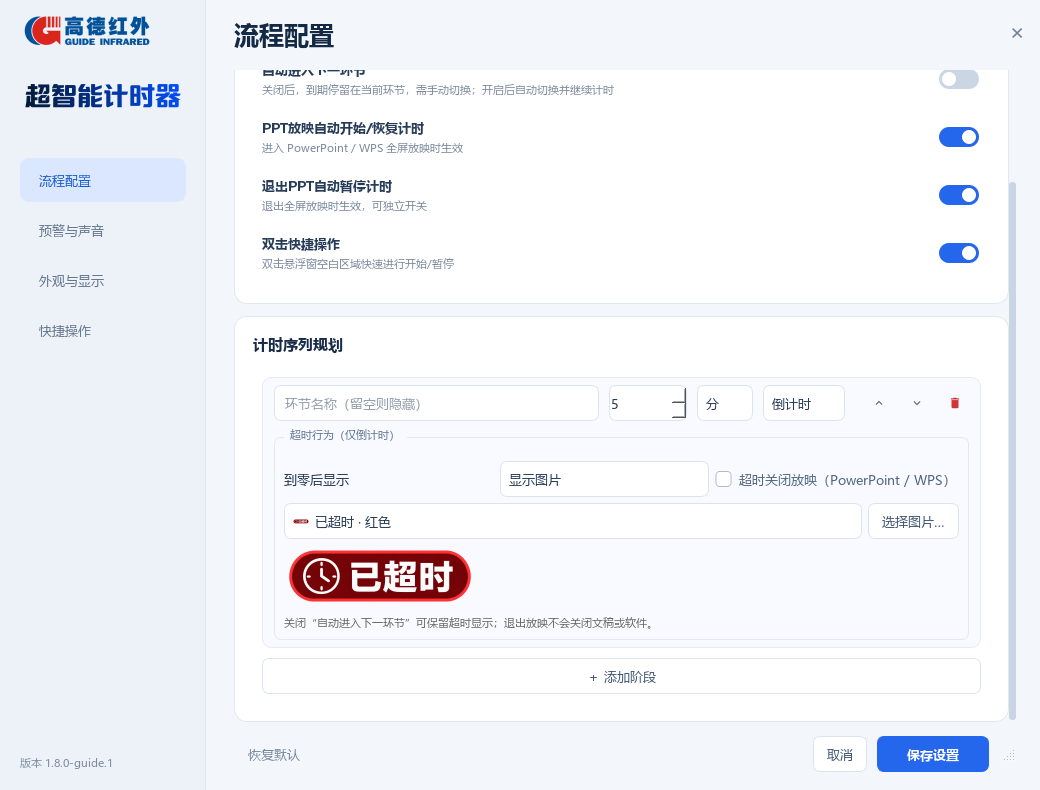
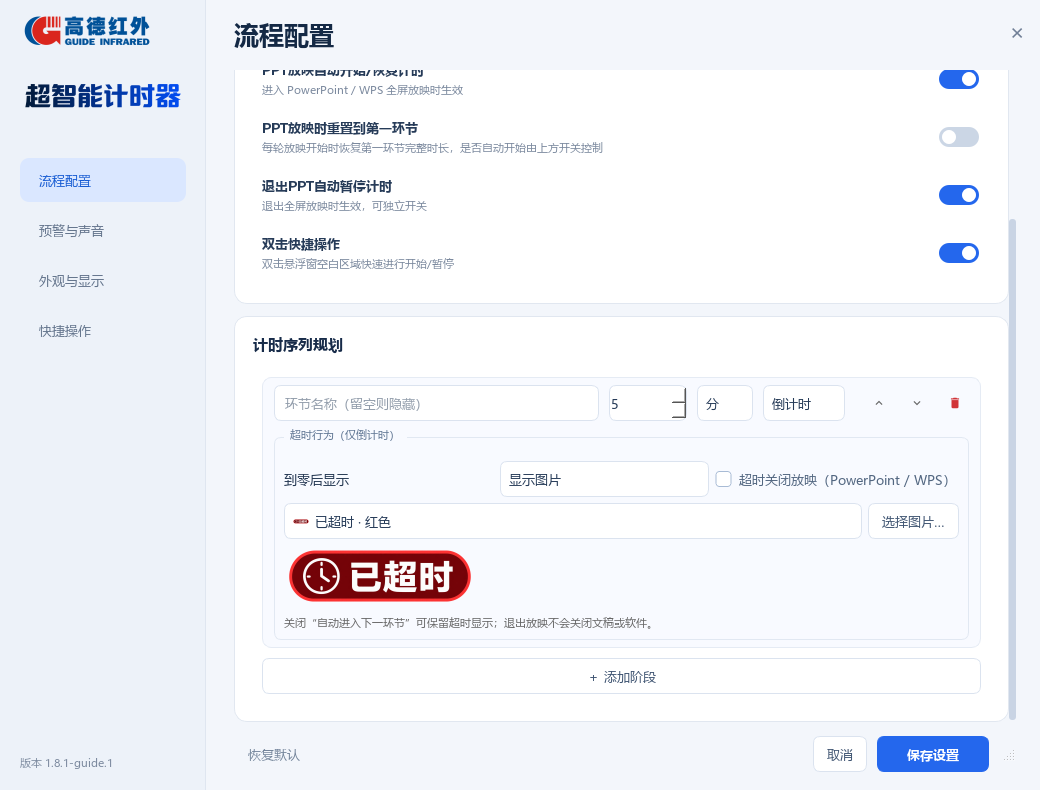
feat: 增加放映开始时重置到第一环节的独立开关

diff --git a/tests/test_reliability.py b/tests/test_reliability.py
@@ -261,6 +261,120 @@ class ReliabilityTests(unittest.TestCase):
         self.assertEqual(instance.float_bar.content_position(), expected)
         self.assertEqual((instance.config.pos_x, instance.config.pos_y), (expected.x(), expected.y()))
 
+    def test_ppt_reset_option_is_default_off_and_persists_without_resetting_now(self):
+        self.path.write_text('{"ppt_auto_start": false}', encoding='utf-8')
+        legacy = q.Config()
+        legacy.load()
+        self.assertFalse(legacy.ppt_reset_on_start)
+        instance = self.instance()
+        instance.controller.next_stage()
+        with patch.object(q.time, 'monotonic', return_value=100):
+            instance.controller.toggle_pause()
+            deadline = instance.controller._target_time
+            instance._open_settings()
+            dialog = instance._settings_window
+            self.assertFalse(dialog.switch_ppt_reset_on_start.isChecked())
+            dialog.switch_ppt_reset_on_start.setChecked(True)
+            dialog._accept_validated()
+        self.assertEqual(instance.controller._stage_idx, 1)
+        self.assertFalse(instance.controller.paused)
+        self.assertEqual(instance.controller._target_time, deadline)
+        restored = q.Config()
+        restored.load()
+        self.assertTrue(restored.ppt_reset_on_start)
+        instance._open_settings()
+        dialog = instance._settings_window
+        self.assertTrue(dialog.switch_ppt_reset_on_start.isChecked())
+        dialog._restore_defaults()
+        self.assertFalse(dialog.switch_ppt_reset_on_start.isChecked())
+        dialog.reject()
+        self.assertTrue(instance.config.ppt_reset_on_start)
+
+    def test_ppt_reset_and_auto_start_are_independent(self):
+        for reset in (False, True):
+            for start in (False, True):
+                with self.subTest(reset=reset, start=start):
+                    instance = self.instance()
+                    instance.config.ppt_reset_on_start = reset
+                    instance.config.ppt_auto_start = start
+                    instance.controller.next_stage()
+                    instance.controller._remaining_float = 7
+                    with patch.object(q, 'is_ppt_slideshow_active', return_value=True), patch.object(q.time, 'monotonic', return_value=100):
+                        instance._check_ppt_status()
+                        self.assertEqual(instance.controller._stage_idx, 1)
+                        self.assertEqual(instance.controller._remaining_float, 7)
+                        instance._check_ppt_status()
+                    self.assertEqual(instance.controller._stage_idx, 0 if reset else 1)
+                    self.assertEqual(instance.controller._remaining_float, 10 if reset else 7)
+                    self.assertEqual(instance.controller.paused, not start)
+
+    def test_ppt_reset_occurs_once_per_confirmed_session_and_retains_manual_pause(self):
+        instance = self.instance()
+        instance.config.ppt_reset_on_start = True
+        instance.config.ppt_auto_start = True
+        def detect(active, count=2):
+            with patch.object(q, 'is_ppt_slideshow_active', return_value=active):
+                for _ in range(count):
+                    instance._check_ppt_status()
+        with patch.object(q.time, 'monotonic', return_value=100):
+            instance.controller.next_stage()
+            detect(True)
+            self.assertEqual(instance.controller._stage_idx, 0)
+            self.assertFalse(instance.controller.paused)
+            instance.controller.next_stage()
+            instance.controller._remaining_float = 6
+            detect(True, 4)
+            self.assertEqual(instance.controller._stage_idx, 1)
+            self.assertEqual(instance.controller._remaining_float, 6)
+            with patch.object(q, 'is_ppt_slideshow_active', return_value=True):
+                instance._handle_user_action(instance.controller.toggle_pause)
+            detect(True)
+            self.assertTrue(instance.controller.paused)
+            detect(False, 1)
+            detect(True)
+            self.assertEqual(instance.controller._stage_idx, 1)
+            self.assertTrue(instance.controller.paused)
+            detect(False)
+            detect(True)
+            self.assertEqual(instance.controller._stage_idx, 0)
+            self.assertEqual(instance.controller._remaining_float, 10)
+            self.assertFalse(instance.controller.paused)
+
+    def test_ppt_reset_restarts_an_expired_countdown_when_auto_start_enabled(self):
+        instance = self.instance()
+        instance.config.ppt_reset_on_start = True
+        instance.config.ppt_auto_start = True
+        instance.controller.next_stage()
+        instance.controller._remaining_float = 0
+        instance.controller._zero_triggered = True
+        with patch.object(q, 'is_ppt_slideshow_active', return_value=True), patch.object(q.time, 'monotonic', return_value=100):
+            instance._check_ppt_status()
+            instance._check_ppt_status()
+        self.assertEqual(instance.controller._stage_idx, 0)
+        self.assertEqual(instance.controller._remaining_float, 10)
+        self.assertFalse(instance.controller.paused)
+        self.assertEqual(instance.controller._target_time, 110)
+
+    def test_ppt_reset_clears_overtime_and_alerts_and_starts_countup_at_zero(self):
+        instance = self.instance()
+        instance.config.stages[0] = q.Stage('Count up', 10, '秒', True)
+        instance.config.ppt_reset_on_start = True
+        instance.controller.next_stage()
+        instance.controller._remaining_float = 0
+        instance.controller._zero_triggered = True
+        instance.float_bar.show_overtime(q.Stage('', timeout_display='image', timeout_image='preset:overdue-red'))
+        instance.float_bar.apply_alert('#ff0000', True)
+        with patch.object(q, 'is_ppt_slideshow_active', return_value=True):
+            instance._check_ppt_status()
+            instance._check_ppt_status()
+        self.assertEqual(instance.controller._stage_idx, 0)
+        self.assertEqual(instance.controller._remaining_float, 10)
+        self.assertTrue(instance.controller.paused)
+        self.assertFalse(instance.controller._zero_triggered)
+        self.assertFalse(instance.float_bar._flash_timer.isActive())
+        self.assertIsNone(instance.float_bar._overtime)
+        self.assertEqual(instance.float_bar.lbl_time.text(), '00:00')
+
     def test_exit_flushes_position_before_delayed_save_fires(self):
         instance = self.instance()
         instance.float_bar.move_content(q.QPoint(300, 200))

diff --git a/main.py b/main.py
@@ -21,7 +21,7 @@ from config_storage import read_config, write_config, safe_bool, safe_int, safe_
 
 APP_ID = "QTimer"  # Stable storage/instance identity preserves existing installations.
 __app_name__ = "超智能计时器"
-__version__ = "1.8.0-guide.1"
+__version__ = "1.8.1-guide.1"
 FORK_URL = "https://github.com/zhouliangchen/QTimer"
 __author__ = "QwejayHuang"
 __company__ = "QwejayHuang"
@@ -294,6 +294,7 @@ class Config:
         self.show_stage_label: bool = True
         self.ppt_auto_start: bool = True
         self.ppt_auto_pause: bool = True
+        self.ppt_reset_on_start: bool = False
         self.double_click_toggle: bool = True
         self.stages: list[Stage] = [Stage("说课时间", 5, "分", False), Stage("答辩时间", 2, "分", False)]
         self.alerts: list[Alert] = [Alert(30, "#ffaa00", True), Alert(10, "#ff4444", True)]
@@ -328,6 +329,7 @@ class Config:
             "show_stage_label": self.show_stage_label,
             "ppt_auto_start": self.ppt_auto_start,
             "ppt_auto_pause": self.ppt_auto_pause,
+            "ppt_reset_on_start": self.ppt_reset_on_start,
             "double_click_toggle": self.double_click_toggle,
             "stages": [asdict(s) for s in self.stages],
             "alerts": [asdict(a) for a in self.alerts],
@@ -1401,12 +1403,14 @@ class SettingsWindow(QDialog):
         self.switch_auto_advance = ToggleSwitch()
         self.switch_ppt_auto_start = ToggleSwitch()
         self.switch_ppt_auto_pause = ToggleSwitch()
+        self.switch_ppt_reset_on_start = ToggleSwitch()
         self.switch_double_click = ToggleSwitch()
         behav_lay = QVBoxLayout()
         behav_lay.setSpacing(12)
         behav_lay.addWidget(self._make_setting_row("显示环节名称", "在主悬浮球中同步显示各小节文本标题", self.switch_show_label))
         behav_lay.addWidget(self._make_setting_row("自动进入下一环节", "关闭后，到期停留在当前环节，需手动切换；开启后自动切换并继续计时", self.switch_auto_advance))
         behav_lay.addWidget(self._make_setting_row("PPT放映自动开始/恢复计时", "进入 PowerPoint / WPS 全屏放映时生效", self.switch_ppt_auto_start))
+        behav_lay.addWidget(self._make_setting_row("PPT放映时重置到第一环节", "每轮放映开始时恢复第一环节完整时长，是否自动开始由上方开关控制", self.switch_ppt_reset_on_start))
         behav_lay.addWidget(self._make_setting_row("退出PPT自动暂停计时", "退出全屏放映时生效，可独立开关", self.switch_ppt_auto_pause))
         behav_lay.addWidget(self._make_setting_row("双击快捷操作", "双击悬浮窗空白区域快速进行开始/暂停", self.switch_double_click))
         lay.addWidget(self._make_card("行为习惯", behav_lay))
@@ -1613,6 +1617,7 @@ class SettingsWindow(QDialog):
             self.switch_show_label.setChecked(source.show_stage_label)
             self.switch_ppt_auto_start.setChecked(source.ppt_auto_start)
             self.switch_ppt_auto_pause.setChecked(source.ppt_auto_pause)
+            self.switch_ppt_reset_on_start.setChecked(source.ppt_reset_on_start)
             self.switch_double_click.setChecked(source.double_click_toggle)
             for s in source.stages:
                 self._add_stage_row(**asdict(s))
@@ -1987,6 +1992,7 @@ class SettingsWindow(QDialog):
         self.config.show_stage_label = self.switch_show_label.isChecked()
         self.config.ppt_auto_start = self.switch_ppt_auto_start.isChecked()
         self.config.ppt_auto_pause = self.switch_ppt_auto_pause.isChecked()
+        self.config.ppt_reset_on_start = self.switch_ppt_reset_on_start.isChecked()
         self.config.double_click_toggle = self.switch_double_click.isChecked()
         self.config.global_sound = self.switch_global_sound.isChecked()
         self.config.countdown_10s_sound = self.switch_10s_sound.isChecked()
@@ -2072,7 +2078,7 @@ class App(QObject):
         self._on_position_changed(position.x(), position.y())
 
     def _check_ppt_status(self) -> None:
-        if not (self.config.ppt_auto_start or self.config.ppt_auto_pause):
+        if not (self.config.ppt_auto_start or self.config.ppt_auto_pause or self.config.ppt_reset_on_start):
             self._ppt_was_active = False
             self._ppt_stable_active_count = 0
             self._ppt_stable_inactive_count = 0
@@ -2085,6 +2091,8 @@ class App(QObject):
             if self._ppt_stable_active_count >= 2 and not self._ppt_was_active:
                 self._ppt_was_active = True
                 self._current_ppt_session_paused_by_user = False
+                if self.config.ppt_reset_on_start:
+                    self.controller.stop()
                 if self.config.ppt_auto_start and self.controller.paused and self.controller._remaining_float > 0:
                     self.controller.toggle_pause()
             elif self._ppt_stable_active_count >= 2:

diff --git a/scripts/check_native_reliability.py b/scripts/check_native_reliability.py
@@ -15,10 +15,11 @@ app.setStyle('Fusion')
 with tempfile.TemporaryDirectory() as root, patch.object(q, 'CONFIG_PATH', str(Path(root)/'config.json')):
     config = q.Config()
     config.global_sound = config.ppt_auto_start = config.ppt_auto_pause = False
-    config.stages = [q.Stage('Native', 30, '秒')]
+    config.stages = [q.Stage('Native', 30, '秒'), q.Stage('Second', 40, '秒')]
     assert config.save()
     with patch.object(q, 'HAS_KEYBOARD', False):
         instance = q.App()
+    instance._ppt_monitor_timer.stop()
     try:
         instance.controller.toggle_pause()
         deadline = instance.controller._target_time
@@ -33,6 +34,29 @@ with tempfile.TemporaryDirectory() as root, patch.object(q, 'CONFIG_PATH', str(P
         QTest.qWait(300)
         assert 28 < instance.controller._remaining_float < 30
         print('native settings save: deadline preserved, timer continues')
+        instance.controller.next_stage()
+        instance.controller.toggle_pause()
+        instance._open_settings()
+        dialog = instance._settings_window
+        dialog.switch_ppt_reset_on_start.setChecked(True)
+        QTest.mouseClick(dialog.btn_save, q.Qt.MouseButton.LeftButton)
+        assert instance.controller._stage_idx == 1
+        with patch.object(q, 'is_ppt_slideshow_active', return_value=True):
+            instance._check_ppt_status()
+            instance._check_ppt_status()
+        assert instance.controller._stage_idx == 0
+        assert instance.controller._remaining_float == 30
+        assert instance.controller.paused
+        assert instance.float_bar.lbl_time.text() == '00:30'
+        instance.config.ppt_auto_start = True
+        with patch.object(q, 'is_ppt_slideshow_active', return_value=False):
+            instance._check_ppt_status()
+            instance._check_ppt_status()
+        with patch.object(q, 'is_ppt_slideshow_active', return_value=True):
+            instance._check_ppt_status()
+            instance._check_ppt_status()
+        assert not instance.controller.paused
+        print('native PPT reset option: persisted, first stage restored, auto-start remains independent')
         instance.float_bar.move_content(q.QPoint(180, 160))
         instance._on_position_changed(180, 160)
         with patch.object(q, 'HAS_KEYBOARD', False), patch.object(q.QApplication, 'quit'):

diff --git a/docs/定制版说明.md b/docs/定制版说明.md
@@ -1,6 +1,14 @@
-# 超智能计时器 1.8.0-guide.1
+# 超智能计时器 1.8.1-guide.1
 
-本项目是基于 [Qwejay/QTimer](https://github.com/Qwejay/QTimer) 的二次开发版本，保留原作者版权与 GPL-3.0 许可证。维护仓库：[zhouliangchen/QTimer](https://github.com/zhouliangchen/QTimer)。修改日期：2026-10-21。
+本项目是基于 [Qwejay/QTimer](https://github.com/Qwejay/QTimer) 的二次开发版本，保留原作者版权与 GPL-3.0 许可证。维护仓库：[zhouliangchen/QTimer](https://github.com/zhouliangchen/QTimer)。修改日期：2026-11-03。
+
+## 1.8.1 更新
+
+- “流程配置 → 行为习惯”增加“PPT放映时重置到第一环节”，默认关闭，旧配置沿用原有行为。支持 PowerPoint 和 WPS 演示。
+- 开启后，每次确认新一轮全屏放映开始时回到第一环节，恢复其完整时长，并清除上一轮的超时图片、文字和预警状态；第一环节为正计时时，从 `00:00` 开始显示。
+- 与“PPT放映自动开始/恢复计时”独立：开启自动开始时，重置后立即开始；关闭自动开始时，重置后等待手动开始。即使另外两个 PPT 联动开关都关闭，仍可单独启用重置。
+- 每轮放映只重置一次。持续放映、切换幻灯片、放映中手动切换环节或暂停不会重复重置；退出及下一轮进入仍使用连续两次检测确认，短暂漏检不算新一轮。
+- 保存开关本身不立即重置当前计时；恢复默认会将此开关关闭。54 项回归测试覆盖独立开关组合、到期后重新放映、一次性重置、手动暂停、旧配置和设置保存。
 
 ## 1.8.0 更新
 

diff --git a/README.md b/README.md
@@ -1,6 +1,6 @@
 # 超智能计时器
 
-基于 Qwejay/QTimer 的二次开发版本，当前版本 `1.8.0-guide.1`。新增左右自适应抽屉、非模态设置、环节超时文字/图片与自动退出放映、持续闪烁等功能，并修复新版 WPS 放映识别。
+基于 Qwejay/QTimer 的二次开发版本，当前版本 `1.8.1-guide.1`。新增左右自适应抽屉、非模态设置、环节超时文字/图片与自动退出放映、持续闪烁等功能，并修复新版 WPS 放映识别。
 
 本版重新设计设置界面，移除“全局穿透度”，修复通透度恢复默认，并增加边缘拖动阈值脱附。Windows 运行入口为 `启动超智能计时器.vbs`。
 
@@ -17,6 +17,8 @@
 **[安装、功能与测试说明](docs/定制版说明.md)** · [维护仓库](https://github.com/zhouliangchen/QTimer) · [原作者仓库](https://github.com/Qwejay/QTimer)
 
 1.8.0 加固计时与配置可靠性：使用单调时钟，保存外观不重置正在运行的计时；配置校验、原子写入及备份恢复；放映退出防抖；副屏坐标恢复和退出前位置保存。评估及待决定项见 [优化评估](docs/优化评估.md)。
+
+1.8.1 新增“PPT放映时重置到第一环节”：每轮放映开始时恢复第一环节完整时长；默认关闭，可与自动开始、退出暂停独立配置。
 
 以下保留原项目介绍和更新记录。
 
